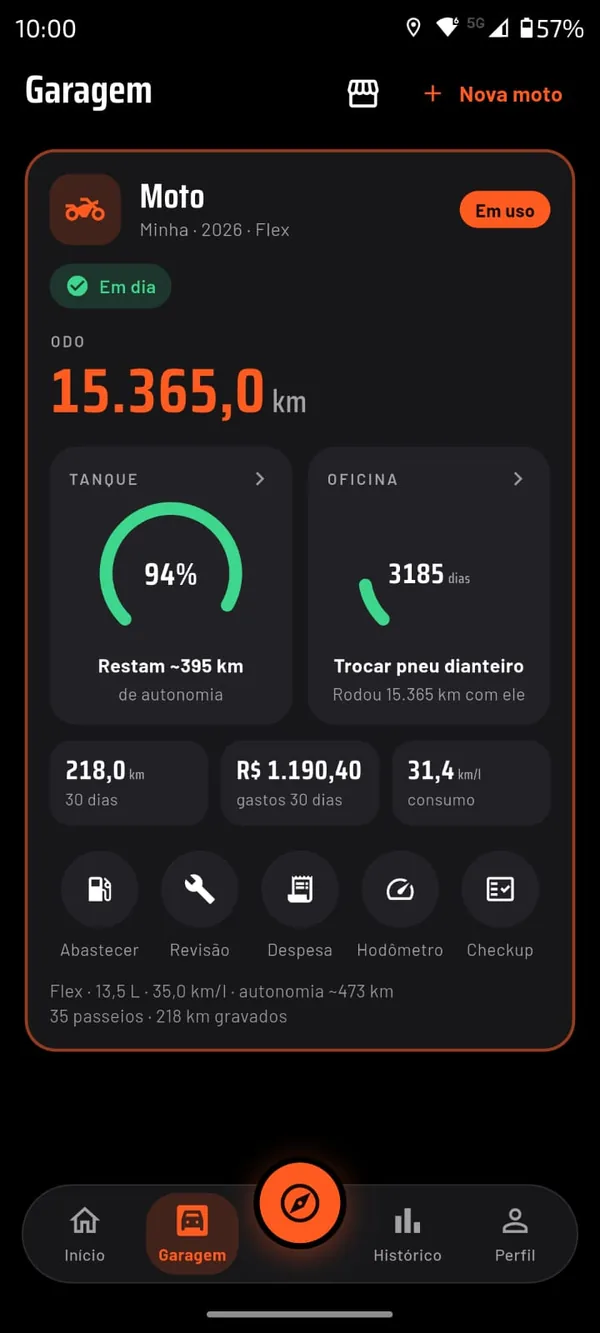
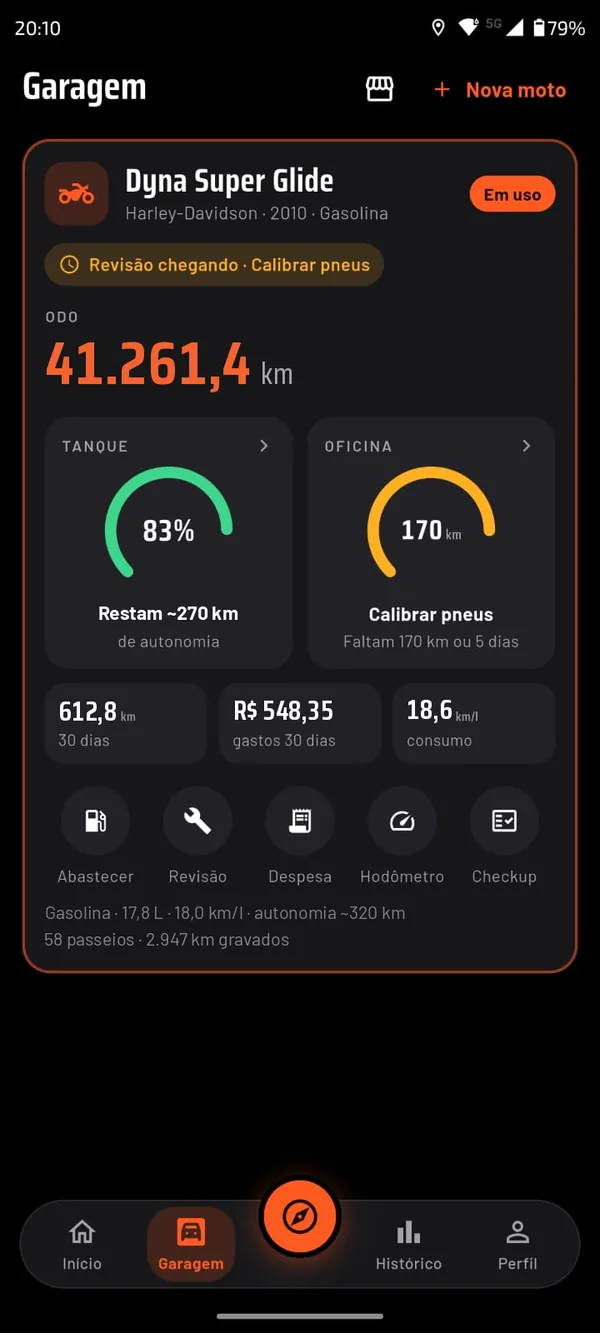
Site: Garagem e Resumo com a moto de demonstração, prévia do link v2

diff --git a/index.html b/index.html
@@ -17,7 +17,7 @@
   <meta property="og:url" content="https://rodandopelomundo.com.br/">
   <meta property="og:locale" content="pt_BR">
   <meta property="og:site_name" content="Rodando Pelo Mundo">
-  <meta property="og:image" content="https://rodandopelomundo.com.br/assets/img/previa-link-v1.jpg">
+  <meta property="og:image" content="https://rodandopelomundo.com.br/assets/img/previa-link-v2.jpg">
   <meta property="og:image:type" content="image/jpeg">
   <meta property="og:image:width" content="1200">
   <meta property="og:image:height" content="630">
@@ -375,7 +375,7 @@
       <div class="cabeca"><h2>Por dentro do app</h2></div>
       <div class="telas">
         <figure class="celular"><div class="moldura"><img src="assets/img/telas/inicio.webp" width="600" height="1333" loading="lazy" alt="Tela Início: saudação, previsão do tempo, painel do mês com km rodados, passeios, tempo em movimento e subida, e a moto em uso com hodômetro e tanque"></div><figcaption>Início: o mês, o clima e a moto em uso</figcaption></figure>
-        <figure class="celular"><div class="moldura"><img src="assets/img/telas/resumo-passeio.webp" width="600" height="1333" loading="lazy" alt="Resumo do passeio com distância, tempo em movimento, velocidades média e máxima, combustível e custo estimados, bateria usada e altimetria"></div><figcaption>Resumo do passeio: tempos, custo e bateria</figcaption></figure>
+        <figure class="celular"><div class="moldura"><img src="assets/img/telas/resumo-passeio.webp" width="600" height="1333" loading="lazy" alt="Resumo do passeio com o mapa colorido pela velocidade, distância, tempos, velocidades média e máxima, subida e descida, combustível e custo estimados e bateria usada"></div><figcaption>Resumo do passeio: tempos, custo e bateria</figcaption></figure>
         <figure class="celular"><div class="moldura"><img src="assets/img/telas/garagem.webp" width="600" height="1333" loading="lazy" alt="Garagem com o hodômetro, o contagiro do tanque com a autonomia, a próxima manutenção, gastos, consumo e atalhos"></div><figcaption>Garagem com tanque, oficina e atalhos</figcaption></figure>
         <figure class="celular"><div class="moldura"><img src="assets/img/telas/historico.webp" width="600" height="1333" loading="lazy" alt="Histórico em linha do tempo com os passeios do mês, distância e velocidade média de cada um, e filtros por moto, período e tipo de registro"></div><figcaption>Histórico de passeios, abastecimentos e manutenções</figcaption></figure>
         <figure class="celular"><div class="moldura"><img src="assets/img/telas/avisos.webp" width="600" height="1333" loading="lazy" alt="Central de avisos com uma medalha nova e os itens de manutenção vencidos da moto"></div><figcaption>Central de avisos da moto e das conquistas</figcaption></figure>

diff --git a/excluir-conta.html b/excluir-conta.html
@@ -17,7 +17,7 @@
   <meta property="og:url" content="https://rodandopelomundo.com.br/excluir-conta.html">
   <meta property="og:locale" content="pt_BR">
   <meta property="og:site_name" content="Rodando Pelo Mundo">
-  <meta property="og:image" content="https://rodandopelomundo.com.br/assets/img/previa-link-v1.jpg">
+  <meta property="og:image" content="https://rodandopelomundo.com.br/assets/img/previa-link-v2.jpg">
   <meta property="og:image:type" content="image/jpeg">
   <meta property="og:image:width" content="1200">
   <meta property="og:image:height" content="630">

diff --git a/privacidade.html b/privacidade.html
@@ -17,7 +17,7 @@
   <meta property="og:url" content="https://rodandopelomundo.com.br/privacidade.html">
   <meta property="og:locale" content="pt_BR">
   <meta property="og:site_name" content="Rodando Pelo Mundo">
-  <meta property="og:image" content="https://rodandopelomundo.com.br/assets/img/previa-link-v1.jpg">
+  <meta property="og:image" content="https://rodandopelomundo.com.br/assets/img/previa-link-v2.jpg">
   <meta property="og:image:type" content="image/jpeg">
   <meta property="og:image:width" content="1200">
   <meta property="og:image:height" content="630">

diff --git a/termos.html b/termos.html
@@ -17,7 +17,7 @@
   <meta property="og:url" content="https://rodandopelomundo.com.br/termos.html">
   <meta property="og:locale" content="pt_BR">
   <meta property="og:site_name" content="Rodando Pelo Mundo">
-  <meta property="og:image" content="https://rodandopelomundo.com.br/assets/img/previa-link-v1.jpg">
+  <meta property="og:image" content="https://rodandopelomundo.com.br/assets/img/previa-link-v2.jpg">
   <meta property="og:image:type" content="image/jpeg">
   <meta property="og:image:width" content="1200">
   <meta property="og:image:height" content="630">

diff --git a/_ferramentas/gerar_previa_link.py b/_ferramentas/gerar_previa_link.py
@@ -8,7 +8,9 @@ Como usar (na pasta do site):
     pip install --user pillow fonttools brotli
     python3 _ferramentas/gerar_previa_link.py
 
-O resultado sai em assets/img/previa-link-v1.jpg (1200 x 630 px).
+O resultado sai em assets/img/previa-link-v2.jpg (1200 x 630 px).
+v2 (19/11/2026): print da Garagem refeito com a moto de demonstração
+(Dyna Super Glide), sem o defeito "3185 dias" do cartão Oficina.
 
 Regras da arte:
 - 1200 x 630 px (proporção 1,91:1), o tamanho que o WhatsApp mostra grande;
@@ -45,7 +47,7 @@ from PIL import Image, ImageDraw, ImageFilter, ImageFont
 PASTA_SITE = Path(__file__).resolve().parent.parent
 PASTA_FONTES = PASTA_SITE / "assets" / "fonts"
 PASTA_TELAS = PASTA_SITE / "assets" / "img" / "telas"
-ARQUIVO_SAIDA = PASTA_SITE / "assets" / "img" / "previa-link-v1.jpg"
+ARQUIVO_SAIDA = PASTA_SITE / "assets" / "img" / "previa-link-v2.jpg"
 
 LARGURA, ALTURA = 1200, 630
 
